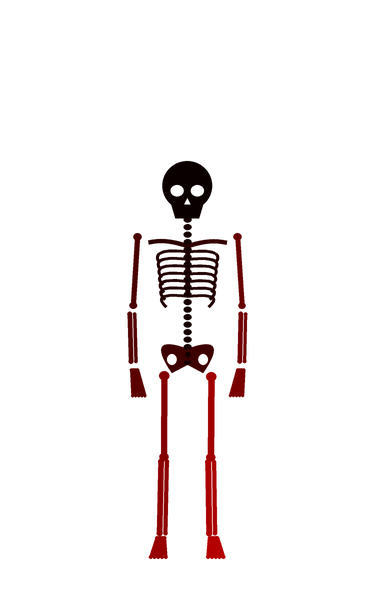
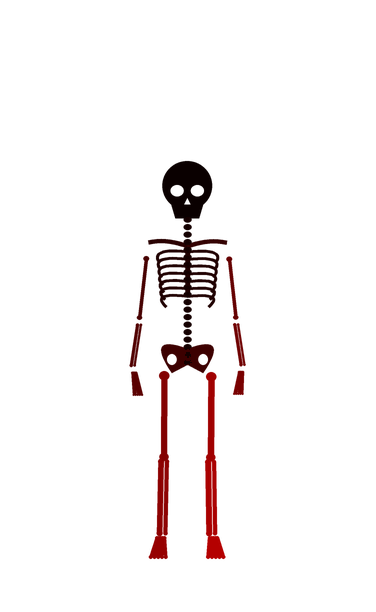
MisakTabs 0.10.1: Outerm arms follow the real arms over the wings
Claude-Session: https://claude.ai/code/session_012eqU6C9cJQv8c2yLwmGE6P

Changed region(s): [[0.5851, 0.3725, 0.6729, 0.652], [0.3218, 0.3725, 0.4096, 0.652]]

diff --git a/MisakTabs/Tools/racekits.py b/MisakTabs/Tools/racekits.py
@@ -58,12 +58,65 @@ def frame_for(name):
     kid = name.endswith("_Kid")
     return (150, 945) if kid else (75, 945)
 
+GRAY = {}   # name -> grey picture in the padded frame (for skin masks)
+
 def build(path):
     name = os.path.basename(path).rsplit(".", 1)[0]
     top, bot = frame_for(name)
     m, g = mask_of(Image.open(path))
     am, gg = fit(m, g, top, bot, maxw=720)
+    GRAY[name] = gg
     return line_of(am, gg)
+
+# 0.10.1: races whose dark wings lie behind the arms – the body is found by its grey
+# (wings are much darker), so the arms get their parts even when they lie over the wings.
+SKIN_RACES = ("Outerm",)
+
+def skin_of(full, gray):
+    gs = ndi.gaussian_filter(gray, 3)
+    FH = full.shape[0]
+    core = full[int(FH * .35):int(FH * .55)]
+    vals = gs[int(FH * .35):int(FH * .55)][core]
+    med = np.median(vals[vals > np.percentile(vals, 40)])
+    sk = full & (gs > med - 40) & (gs < med + 45)
+    sk = ndi.binary_opening(sk, iterations=2)
+    sk = ndi.binary_fill_holes(ndi.binary_closing(sk, iterations=2))
+    lab, n = ndi.label(sk)
+    sizes = ndi.sum(sk, lab, range(1, n + 1))
+    return lab == (np.argmax(sizes) + 1)
+
+def refine_arms(lab, skin):
+    """every skin pixel outside head/neck/torso/legs that touches an arm becomes arm; then each
+    arm is cut by distance from the shoulder: 45 % upper arm, 35 % forearm, rest hand"""
+    out = lab.copy()
+    out[np.isin(lab, (4, 5, 6, 7, 8, 9))] = 0          # arms are rebuilt from the skin
+    body = np.isin(lab, (1, 2, 3, 10, 11, 12, 13, 14, 15))
+    legs = ndi.binary_dilation(np.isin(lab, (10, 11, 12, 13, 14, 15)), iterations=5)
+    free = ndi.binary_opening(skin & ~body & ~legs, iterations=3)   # no thin strips along the legs or wing edges
+    comp, n = ndi.label(free)
+    for first in (4, 7):
+        arm = np.isin(lab, (first, first + 1, first + 2)) & skin
+        ids = np.unique(comp[arm & (comp > 0)])
+        region = np.isin(comp, ids[ids > 0])
+        if not region.any(): continue
+        torso = ndi.binary_dilation(lab == 3, iterations=4)
+        ys = np.flatnonzero(region.any(1))
+        seed = region & torso
+        seed[ys[0] + int((ys[-1] - ys[0]) * .2):] = False      # only the shoulder, not the whole side
+        if not seed.any():
+            seed = region.copy(); seed[ys[0] + 6:] = False
+        if not seed.any(): continue
+        # geodesic distance inside the arm region
+        dist = np.full(lab.shape, np.inf); dist[seed] = 0
+        frontier = seed.copy(); d = 0
+        while frontier.any() and d < 2000:
+            d += 1
+            nxt = ndi.binary_dilation(frontier) & region & np.isinf(dist)
+            dist[nxt] = d; frontier = nxt
+        dmax = dist[region & np.isfinite(dist)].max()
+        r = region & np.isfinite(dist)
+        out[r] = np.where(dist[r] < .45 * dmax, first, np.where(dist[r] < .8 * dmax, first + 1, first + 2))
+    return out
 
 KITS = "/home/claude/rimworld-mods-/MisakTabs/Anatomy"
 
@@ -182,7 +235,12 @@ if __name__ == "__main__":
         built[os.path.basename(f)[:-4]] = build(f)
     import export_kit
     for n, (line, full, a) in built.items():
-        ids = fit_labels(full, kind_for(n))
+        race = n.split("_")[0]
+        if race in SKIN_RACES:
+            skin = skin_of(full, GRAY[n])
+            ids = refine_arms(fit_labels(full, kind_for(n)), skin)
+        else:
+            ids = fit_labels(full, kind_for(n))
         B = RaceBody(line, full, a, ids)
         export_kit.export(B, f"{out}/{n}")
         print(n, "ok")

diff --git a/MisakTabs/Source/MisakTabs.cs b/MisakTabs/Source/MisakTabs.cs
@@ -48,7 +48,7 @@ namespace MisakTabs
 
     public class MTMod : Mod
     {
-        public const string Version = "0.10.0";
+        public const string Version = "0.10.1";
         public static MTSettings S;
         public static Harmony H;
         public static ModContentPack Pack;   // 0.7.0
